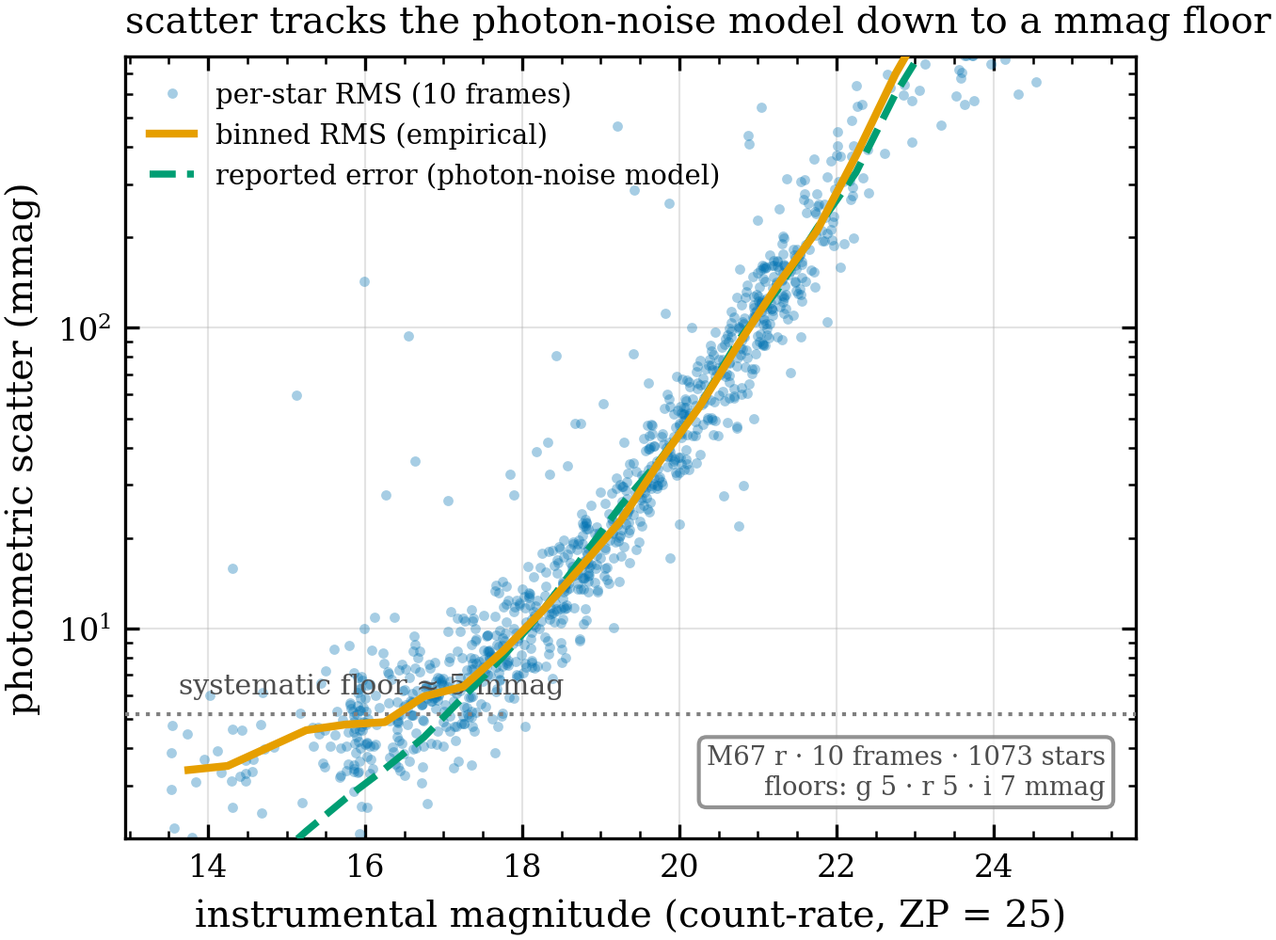
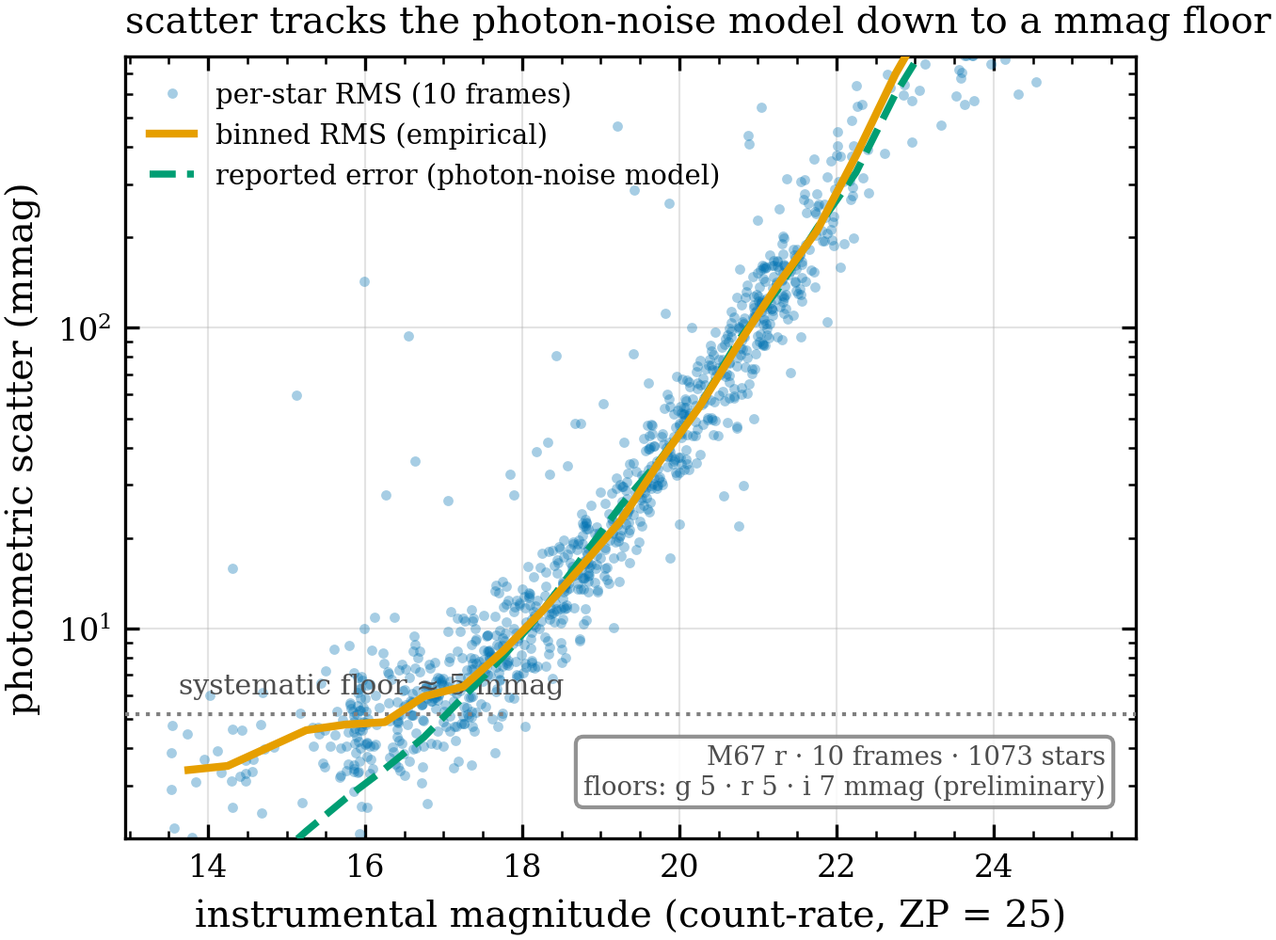
paper(3.6): rewrite EN+KO to real-frame injection + S/N collapse; fix SEP citation; scope precision-floor to Honeycutt
Section 3.6 now presents the seven-single-exposure real-frame injection (depths
17.65/15.64/14.90 read off, Wilson intervals, cutout ladder), the synthetic frame
demoted to a verification rung with the m50 coincidence stated honestly, and the
peak-S/N collapse (S/N50 = 4.05 +/- 0.18, FWHM trend rho=-0.98, minimum-area
mechanism) as the invariant claim, plus the 6% real-star detection-count
prediction. SEP citation corrected bertin1996 -> barbary2016 (LIT_REVIEW_R2 A1).
Precision-floor figure re-attributed to Honeycutt 1992 alone with 'single night,
preliminary' labels; Collier Cameron/Kovacs deferred to the LC SYSREM rerun.

Changed region(s): [[0.5885, 0.8068, 0.8673, 0.8689], [0.4336, 0.7758, 0.5575, 0.8689]]

diff --git a/validation/paper/논문작업/지식그래프.html b/validation/paper/논문작업/지식그래프.html
@@ -48,7 +48,7 @@ canvas.drag{cursor:grabbing}
  <div id="side"><div id="sinner"><button id="sclose">닫기 ✕</button><div id="sbody"></div></div></div>
 </div>
 <script>
-const G = {"cats": {"1": "재현 그림", "2": "레퍼런스 논문", "3": "데이터 자산", "4": "확정 결정·원칙", "5": "조사·진단", "6": "보류·미결"}, "nodes": [{"id": "hub_paper", "label": "RASTI/PASP 논문", "title": "RASTI/PASP 논문", "type": "hub", "cat": 0, "card": "# APEX 도구 논문\nRASTI/PASP급. 원고 `validation/paper/MANUSCRIPT_ko.md`(+영문). 구조 v4 = `OUTLINE.md`.\n- 그림 헌장: [[dec_figure_spec|FIGURE_SPEC]] · 재현 현황: `REPRODUCTION_STATUS.md`\n- 리뷰 R1: Major Revision(`REVIEW_ROUND1.md`) · 서지 40소스: `LIT_REVIEW.md`+`LIT_REVIEW_R2.md`\n- 원칙: [[dec_repro_def|재현=방법/법칙]] · [[dec_vv_ladder|verification→validation 사다리]]"}, {"id": "hub_repro", "label": "레퍼런스 재현 (/goal)", "title": "레퍼런스 재현 (/goal)", "type": "hub", "cat": 0, "card": "# 레퍼런스 검증-프레임 재현\n사용자 /goal: \"각 주요 논문 검증프레임을 할 수 있는 만큼 재현\". 정본 = `REPRODUCTION_STATUS.md`.\n- 완료 4: [[fig_completeness|완전도]] [[fig_astrometry|측성]] [[fig_iraf|IRAF교차]] [[fig_precision|정밀도floor]]\n- 보류: [[pend_lc_period|LC주기]] [[pend_zp_resid|광도보정잔차]] [[pend_cog|CoG]] [[pend_bouguer|소광]]"}, {"id": "fig_completeness", "label": "F5 완전도(실측주입)", "title": "F5 완전도(실측주입)", "type": "n", "cat": 1, "card": "# F5 — 검출 완전도, 실측-프레임 주입\n`fig_completeness_realvssynth.py` → `figures/fig_completeness_realvssynth.png`\n- 재현: [[ref_haynes|Haynes 2002]] · [[ref_balrog|DES Balrog]] · [[ref_daophot|DAOPHOT ADDSTAR]] · [[ref_autophot|AutoPhOT App.D]]\n- 실측 3+4프레임: M67 i **m50 17.65** / NGC6811 R **15.64** / M13 V **14.90** (+법칙검증용 4프레임 추가)\n- (b) S/N 붕괴 패널: 7프레임 전부 peak-S/N축에서 단일 erf로 붕괴, **S/N50=4.05±0.18** (3.2σ 매치드필터와 일치) — [[dec_m13_ok|M13 이상치 아님]]\n- 하단: 실주입별 컷아웃 사다리 m13→16 (`make_injection_cutouts.npz`, inject_flux_catalog 정규경로)\n- 합성은 verification rung: S/N 기준 약간 보수적([[dec_synth_ok|2차 정정]]) · 조사: [[inv_completeness|완전도 조사노트]]"}, {"id": "fig_astrometry", "label": "F6 측성(Gaia잔차)", "title": "F6 측성(Gaia잔차)", "type": "n", "cat": 1, "card": "# F6 — 측성 검증\n`fig_astrometry.py` · 재현: [[ref_ofek_masci|Ofek 2019 / Masci 2019(ZTF)]]\n- 실측 66프레임(M13 15·M67 30·NGC6811 21) `step5_wcs/frame_wcs_qc.csv`\n- Gaia DR3 잔차 RMS **중앙값 0.258″**, 66/66 solved, 피팅 없음(파이프라인이 실제 배포한 WCS)\n- (b)패널은 별수-안정성으로 대체됨 — 원문은 노출/시간축. 개선 여지(사용자 지적)"}, {"id": "fig_iraf", "label": "F10 독립엔진(IRAF)", "title": "F10 독립엔진(IRAF)", "type": "n", "cat": 1, "card": "# F10 — 독립엔진 교차검증\n`fig_iraf_crosscheck.py` · 재현: [[ref_schechter|Schechter 1993]] · AutoPhOT Fig14\n- NGC6811 V 전-APEX 리덕션, 고정좌표 499별: APEX vs IRAF phot(DAOPHOT)\n- **MAD 9.7 mmag · RMS 18.7 · r=0.99989**, binned median faint까지 평평(계통 없음)\n- 데이터: `benchmark/runs/ngc6811_iraf_allapex_v1/phot_fixed_coords/fixed_comparison.csv`\n- 기기의존도 최저(같은 프레임, 두 코드) — 재현 4종 중 가장 깨끗"}, {"id": "fig_precision", "label": "정밀도 floor(예비)", "title": "정밀도 floor(예비)", "type": "n", "cat": 1, "card": "# 정밀도 floor — RMS vs mag\n`fig_precision_floor.py` · 귀속: [[ref_honeycutt|Honeycutt 1992]] (앙상블 방법검증)\n- 실측 M67 r 10프레임 1073별, Honeycutt 앙상블 ZP: **floor g/r/i = 5.4/5.2/6.7 mmag**\n- 경험RMS = 보고 mag_err (photon영역 일치 = 에러모델 정직) + bright end 계통 floor 노출\n- ⚠ **10에폭 = under-powered**: 단일밤·binning 불가. floor값 자체는 에폭수 무감(5ep 5.18±0.33)\n- ⚠ [[pend_precision_fix|CC/Kovács 귀속 정정 필요]] — 원문 의도=detrending 전후 비교(SYSREM/TFA), 미재현"}, {"id": "ref_haynes", "label": "Haynes 2002", "title": "Haynes 2002", "type": "n", "cat": 2, "card": "# Haynes 2002 (MNRAS 334,262)\n합성 vs 실측 프레임 주입 **0.4–0.5 mag 계통 차** + 순환성 경고(\"merely confirm the starting hypothesis\").\n→ §3.6을 실측-프레임 주입으로 전환시킨 근거. APEX 합성은 S/N 기준 오히려 약간 보수적\n([[dec_synth_ok|2차 정정]] — m50 우연 일치 철회, FWHM 트렌드로 설명)."}, {"id": "ref_balrog", "label": "DES Balrog", "title": "DES Balrog", "type": "n", "cat": 2, "card": "# Suchyta+ (DES Balrog)\n\"real pixel-level CCD images\"에 소스 주입 — 실측 주입의 서베이 표준. 컷아웃 예시 그림 관행의 출처 중 하나.\nHSC SynPipe도 동일 계열."}, {"id": "ref_daophot", "label": "Stetson (DAOPHOT)", "title": "Stetson (DAOPHOT)", "type": "n", "cat": 2, "card": "# Stetson 1987 — DAOPHOT ADDSTAR\n인공별 실측 주입의 원조 루틴. crowded-field 측광 표준."}, {"id": "ref_autophot", "label": "AutoPhOT (A&A 667 A62)", "title": "AutoPhOT (A&A 667 A62)", "type": "n", "cat": 2, "card": "# Brennan & Fraser 2022 — AutoPhOT\nQC·벤치마크 준거 논문. App.D=주입-회수(S/N erf), Fig12=주입 컷아웃, Fig14=IRAF 대조.\n[[fig_completeness|F5]]·[[fig_iraf|F10]] 둘 다 이 논문 형식 재현."}, {"id": "ref_ofek_masci", "label": "Ofek 2019 · Masci 2019", "title": "Ofek 2019 · Masci 2019", "type": "n", "cat": 2, "card": "# Ofek 2019 (PASP 131) · Masci 2019 (ZTF)\n서베이 측성 검증 보고 형식: 프레임별 Gaia 잔차 RMS + solve 신뢰도. [[fig_astrometry|F6]]이 재현.\nPP(Mommert 2017) 0.3″을 참조선으로 병기."}, {"id": "ref_schechter", "label": "Schechter 1993", "title": "Schechter 1993", "type": "n", "cat": 2, "card": "# Schechter+ 1993 (PASP 105,1342) — DoPHOT\n신규코드 vs 기성코드(DAOPHOT), 같은 별·고정좌표, Δmag-vs-mag 평평성으로 계통 귀속.\n[[fig_iraf|F10]]이 재현."}, {"id": "ref_honeycutt", "label": "Honeycutt 1992", "title": "Honeycutt 1992", "type": "n", "cat": 2, "card": "# Honeycutt 1992 (PASP 104,435)\n비교성 지정 없는 **앙상블 차등측광**(모든 별+프레임ZP 동시해). RMS-vs-mag은 앙상블이\n광자한계에 도달함을 보이는 방법검증. [[fig_precision|floor 그림]]의 올바른 단독 귀속."}, {"id": "ref_cc_kovacs", "label": "CC 2006 · Kovács 2005", "title": "CC 2006 · Kovács 2005", "type": "n", "cat": 2, "card": "# Collier Cameron 2006 (WASP) · Kovács 2005 (TFA)\n**detrending 논문** — 의도는 SYSREM/TFA 전후 floor 하강 비교(수천 에폭, 트랜짓 감도).\n10에폭 단일밤으론 재현 불가 → [[pend_lc_period|LC 재현]]에서 SYSREM 전후로 제대로.\n현 floor 그림에서 귀속 제거 예정([[pend_precision_fix|정정 미결]])."}, {"id": "ref_period", "label": "Stellingwerf · Graham", "title": "Stellingwerf · Graham", "type": "n", "cat": 2, "card": "# Stellingwerf 1978 (PDM) · Graham 2013 (주기복원 비교)\n주기 복원 검증 준거. AE UMa(P=0.086017d)·YZ Boo(P=0.104092d) 문헌 확정값 보유.\nLC 전처리 deferred라 보류: [[pend_lc_period|LC 주기복원]]."}, {"id": "data_reprocess", "label": "reprocess 3성단", "title": "reprocess 3성단", "type": "n", "cat": 3, "card": "# E:\\APEX_validation\\reprocess\\\n전-APEX 헤드리스 재처리(raw→science). step7 forced phot: M13 15fr(BVR) · M67 30fr(gri) ·\nNGC6811 21fr(BVR). M5는 step7 없음. WCS QC 66프레임 전부 solved.\n과학프레임 위치: `{target}/sci/pp_*.fit` (M13만 calibrated/ 사용례 있음)."}, {"id": "data_injections", "label": "실측주입 7런", "title": "실측주입 7런", "type": "n", "cat": 3, "card": "# validation/paper/data_realframe_*\nrun_artificial_star_suite(reference_frame=실측) 60trial×50별. stars.csv는 git 추적.\n- 대표3: M67i(m50 17.65) · NGC6811R(15.64) · M13V(14.90)\n- 법칙용4(2026-07-24): M67r_mid · M67g_broad · NGC6811R_broad · M13R_sharp — [[done_lawtest|법칙 검증 완료]]\n- 컷아웃: `data_realframe_M13V/injection_cutouts.npz`"}, {"id": "data_iraf", "label": "IRAF 교차 런", "title": "IRAF 교차 런", "type": "n", "cat": 3, "card": "# benchmark/runs/\n`ngc6811_iraf_allapex_v1`(499별, 본검증) · `ngc457_iraf_crosscheck_g0016_v1`(278별, 구버전).\nPyRAF는 WSL. fixed_comparison.csv 소비."}, {"id": "data_synth", "label": "합성 21k 주입", "title": "합성 21k 주입", "type": "n", "cat": 3, "card": "# validation/paper/data/artificial_star/\n합성 참조프레임(FWHM 3.4px·sky 150) 21,000주입. m50=17.59. verification rung 전용\n([[dec_vv_ladder|사다리 프레이밍]]). 실측과 혼용 금지."}, {"id": "data_lc", "label": "LC 데이터(잠김)", "title": "LC 데이터(잠김)", "type": "n", "cat": 3, "card": "# E:\\observed_Analysis (LC 전처리 대기)\nAE UMa·YZ Boo 등 변광성 시계열. **사용자 수동 삭제 대기로 100GB 전처리 deferred** —\n[[pend_lc_period|LC 주기복원]]과 CC/Kovács 제대로 된 재현의 선결조건."}, {"id": "dec_repro_def", "label": "재현=방법/법칙", "title": "재현=방법/법칙", "type": "n", "cat": 4, "card": "# \"재현\"의 정의 (2026-07-23 확정)\n레퍼런스들은 전부 다른 기기(CCD 서베이 등), APEX=IMX455 CMOS 소형망원경.\n- **비교 불가**: floor 절대값·한계등급·광자곡선 위치 → \"WASP만큼 정밀\"류 문구 금지\n- **재현 대상**: 검증 프로토콜(주입·앙상블·독립엔진) + 보편 법칙(RMS모양, m50∝σ·FWHM²)\n- 수치는 항상 \"APEX(C3-61000 CMOS)에서\" 로 보고. `REPRODUCTION_STATUS.md`에 명문화."}, {"id": "dec_synth_ok", "label": "합성=보수적(정정)", "title": "합성=보수적(정정)", "type": "n", "cat": 4, "card": "# 합성 프레임 판정 — 2차 정정 (2026-07-24)\n~~\"M67 실측 m50=합성이라 낙관 아님\"~~ ← **철회**: m50 일치는 노이즈↑·PSF샤프↑ 상쇄의\n파라미터 우연(사용자 의심 적중). 직접 계산하면 합성 S/N50=**5.19**로 실측 법칙(4.05±0.18)\n위에 없음. **새 체계**: S/N50이 커널 FWHM에 단조 의존(ρ=-0.982; 샤프할수록 높음, 기전=\n최소 픽셀면적 요구). 합성(3.4px)도 이 트렌드 위 → **S/N 기준 합성은 약간 보수적**.\n상세: COMPLETENESS_REALFRAME_INVESTIGATION.md 후속정정 절."}, {"id": "dec_m13_ok", "label": "M13 이상치 아님", "title": "M13 이상치 아님", "type": "n", "cat": 4, "card": "# M13 V 프레임은 그냥 얕은 프레임\nm50 격차 완전 분해: 하늘밝기 1.92 + seeing 0.82 = 2.75 mag (관측 2.75, Δ0.00).\n법칙 m50 = C − 2.5logσ − 5logFWHM 이 3프레임 Δ≤0.04로 성립(지수 고정).\npeak-detection 절벽 메커니즘: mag15 별 peak 84e < 3.2σ 임계 96e."}, {"id": "dec_vv_ladder", "label": "V&V 사다리", "title": "V&V 사다리", "type": "n", "cat": 4, "card": "# verification → validation 프레이밍\nOberkampf&Trucano 2002 · Portillo 2020 3-rung. 합성=기계 수치정확성(verification),\n실측=실성능(validation). §3 전반과 [[fig_completeness|F5]] 범례에 적용."}, {"id": "dec_figure_spec", "label": "FIGURE_SPEC 헌장", "title": "FIGURE_SPEC 헌장", "type": "n", "cat": 4, "card": "# 그림 전면 재작성 헌장 (`FIGURE_SPEC.md`)\n10개 공통병 진단(패널제목=변수명·내부ID 노출·suptitle 박힘·AIPPI 패널 등).\n규칙: message-first 제목 · 내부 데이터셋ID 금지 · **AIPPI는 검증 그림에서 제외**(자체툴=순환) ·\nF1-17 파이프라인 순서 번호."}, {"id": "dec_citation_fixes", "label": "인용 오류 6건", "title": "인용 오류 6건", "type": "n", "cat": 4, "card": "# 확정 인용 정정 목록 (LIT_REVIEW_R2 ★A)\n1) SEP→**barbary2016** (bertin1996 아님) 2) AIJ 6.0은 주기도 **있음** 3) HOPS=EPSC 학회초록\n4) Munipack(Hroch,CLI)≠Muniwin(Motl,GUI) 5) ASTROPOP IRAF비교=편광측정 한정 6) PASP=IOP.\n원고 반영 미완 → 다음 원고 패스에서."}, {"id": "inv_completeness", "label": "완전도 조사노트", "title": "완전도 조사노트", "type": "n", "cat": 5, "card": "# COMPLETENESS_REALFRAME_INVESTIGATION.md\n2.7mag 격차 전체 추적 기록: flux스케일 무죄 → PSF폭=실측seeing 확인 → peak-detection 절벽 →\n파이프라인 자체 검출롤오프와 독립 일치 → 다중프레임 확장(법칙). [[dec_m13_ok|결론]]·[[dec_synth_ok|반증]]의 근거문서."}, {"id": "inv_detector", "label": "검출기 실측", "title": "검출기 실측", "type": "n", "cat": 5, "card": "# C3-61000/IMX455 특성 실측\ngain **0.689 e/ADU**(PTC) — 헤더 EGAIN 0.0495는 14× 오류(펌웨어 미구현). RN 2.1e·dark 0.0077e/s.\n주입 flux 전자환산의 기반. 메모리 project_detector_characterization."}, {"id": "inv_bfilter", "label": "B필터 판결(종결)", "title": "B필터 판결(종결)", "type": "n", "cat": 5, "card": "# B필터 faint 편차 — PS1 대조 종결\nGaia BP faint 감광 유죄(ref +0.022), APEX 무죄(vs PS1 +0.008 평평).\n교훈: faint 검증에 BP기반 참조 금지 — [[pend_zp_resid|광도보정 잔차]] 설계 시 필수 반영."}, {"id": "done_lawtest", "label": "법칙 검증(완료)", "title": "법칙 검증(완료)", "type": "n", "cat": 5, "card": "# 7프레임 검출법칙 검증 — 완료 (2026-07-24)\nm50 = C − 2.5logσ − 5logFWHM, **지수 이론고정·C만 fit: 잔차 RMS 103 mmag** (동적범위 3.4mag, N=7).\n- 추가 4런: M67r_mid·M67g_broad·NGC6811R_broad·M13R_sharp (off-diagonal로 σ·FWHM 항 분리)\n- **교훈**: FWHM은 frame_stats(밝은별)가 아니라 **각 런의 주입커널**(empirical_psf.fits 반높이면적)로\n  — soft 프레임에서 9.30 vs 7.23px 괴리가 0.4mag 이탈 일으켰음(추적해 해소)\n- 이 법칙이 [[dec_repro_def|기기무관 재현]]의 실체 — 절대 깊이가 아니라 법칙이 검증 대상"}, {"id": "pend_precision_fix", "label": "floor 귀속 정정", "title": "floor 귀속 정정", "type": "n", "cat": 6, "card": "# 정밀도 floor 그림 정정 (미승인 제안)\nCC/Kovács 귀속 제거 → Honeycutt 단독 + \"single-night N=10 예비\" 라벨.\n확정판은 [[pend_lc_period|LC]]에서 SYSREM 전후 비교로. **사용자 승인 대기.**"}, {"id": "pend_lc_period", "label": "LC 주기복원", "title": "LC 주기복원", "type": "n", "cat": 6, "card": "# LC 재현 (Stellingwerf/Graham + CC/Kovács 진짜 재현)\n선결: 사용자 observed_Analysis 수동삭제 → LC 전처리(100GB) → step1-11.\n목표: AE UMa·YZ Boo 주기 문헌 대조 + SYSREM 전후 RMS-vs-mag(수백 에폭)."}, {"id": "pend_zp_resid", "label": "광도보정 잔차", "title": "광도보정 잔차", "type": "n", "cat": 6, "card": "# ZP·색항·잔차 그림 (Padmanabhan/Schlafly식)\n데이터는 cmd_zeropoint/에 있으나 **Gaia-CMD 보정계=논란영역**(이소크론·B필터 이력).\n어느 레퍼런스로 보정할지 사용자 결정 필요. [[inv_bfilter|BP 금지 교훈]] 적용."}, {"id": "pend_cog", "label": "Curve-of-growth", "title": "Curve-of-growth", "type": "n", "cat": 6, "card": "# 구경보정 CoG (Stetson/Howell)\napcorr_summary는 프레임당 단일값뿐 — 다중구경 재실행 필요."}, {"id": "pend_bouguer", "label": "소광 Bouguer", "title": "소광 Bouguer", "type": "n", "cat": 6, "card": "# zp vs airmass (Hardie 1962)\nframe_zeropoint.csv에 airmass 있음. 단 ZP 레퍼런스 얽힘 + airmass span 미확인."}, {"id": "pend_fig_a_layout", "label": "fig(a)=C안 진행중", "title": "fig(a)=C안 진행중", "type": "n", "cat": 6, "card": "# fig(a) 배치 — **C안 확정**(2026-07-24, \"C로 하던가\")\nKessler/ATLAS식 \"예측 vs 실현 깊이\" QC 그림. 조사=`FIG_A_PRESENTATION_SURVEY.md`.\n- 예측 절반: 병렬 세션 task_5bb4af3e(predict-m50 QC 게이트)가 구현 중 — 머지 대기\n- 실현 절반: **완료** — `extract_realized_depth.py` → `data_qc_depth/realized_m50.csv`,\n  66프레임(유효 57). 실별 참등급=동일필터 중앙값 count-rate mag(Eddington 제거).\n- **순환 차단**: 필터 최심 프레임은 master 꼬리가 자기검출로 구성→깊이 부풂(M13 R +1.45 사례).\n  master 한계 margin ≤0.7mag → depth_valid=False. 유효 주입프레임 6개 대조: RMS 0.15 mag.\n- 남은 일: 머지 후 predicted vs realized 산점 조립(+블렌드 매칭 +0.1 편향 캡션 명시)"}, {"id": "pend_manuscript", "label": "원고 §3.6 갱신", "title": "원고 §3.6 갱신", "type": "n", "cat": 6, "card": "# 원고 반영 대기\n§3.6을 다중프레임 실측주입+법칙으로 갱신 · §3.7(측성)·§3.15(시계열) 스텁 채우기 ·\n[[dec_citation_fixes|인용 6건]] 반영 · Data Availability 그림번호 깨짐 수정."}], "edges": [["hub_paper", "hub_repro"], ["hub_paper", "dec_figure_spec"], ["hub_paper", "dec_citation_fixes"], ["hub_paper", "dec_vv_ladder"], ["hub_paper", "pend_manuscript"], ["hub_repro", "fig_completeness"], ["hub_repro", "fig_astrometry"], ["hub_repro", "fig_iraf"], ["hub_repro", "fig_precision"], ["hub_repro", "dec_repro_def"], ["fig_completeness", "ref_haynes"], ["fig_completeness", "ref_balrog"], ["fig_completeness", "ref_daophot"], ["fig_completeness", "ref_autophot"], ["fig_completeness", "data_injections"], ["fig_completeness", "data_synth"], ["fig_completeness", "inv_completeness"], ["fig_completeness", "dec_synth_ok"], ["fig_completeness", "dec_m13_ok"], ["fig_completeness", "done_lawtest"], ["fig_astrometry", "ref_ofek_masci"], ["fig_astrometry", "data_reprocess"], ["fig_iraf", "ref_schechter"], ["fig_iraf", "ref_autophot"], ["fig_iraf", "data_iraf"], ["fig_precision", "ref_honeycutt"], ["fig_precision", "ref_cc_kovacs"], ["fig_precision", "data_reprocess"], ["fig_precision", "pend_precision_fix"], ["inv_completeness", "dec_m13_ok"], ["inv_completeness", "dec_synth_ok"], ["dec_vv_ladder", "data_synth"], ["inv_detector", "data_injections"], ["dec_repro_def", "fig_precision"], ["dec_repro_def", "fig_completeness"], ["pend_lc_period", "ref_cc_kovacs"], ["pend_lc_period", "ref_period"], ["pend_lc_period", "data_lc"], ["pend_precision_fix", "ref_cc_kovacs"], ["pend_zp_resid", "inv_bfilter"], ["done_lawtest", "data_injections"], ["pend_manuscript", "dec_citation_fixes"], ["hub_repro", "pend_zp_resid"], ["hub_repro", "pend_cog"], ["hub_repro", "pend_bouguer"], ["hub_repro", "pend_lc_period"], ["fig_completeness", "pend_fig_a_layout"]]};
+const G = {"cats": {"1": "재현 그림", "2": "레퍼런스 논문", "3": "데이터 자산", "4": "확정 결정·원칙", "5": "조사·진단", "6": "보류·미결"}, "nodes": [{"id": "hub_paper", "label": "RASTI/PASP 논문", "title": "RASTI/PASP 논문", "type": "hub", "cat": 0, "card": "# APEX 도구 논문\nRASTI/PASP급. 원고 `validation/paper/MANUSCRIPT_ko.md`(+영문). 구조 v4 = `OUTLINE.md`.\n- 그림 헌장: [[dec_figure_spec|FIGURE_SPEC]] · 재현 현황: `REPRODUCTION_STATUS.md`\n- 리뷰 R1: Major Revision(`REVIEW_ROUND1.md`) · 서지 40소스: `LIT_REVIEW.md`+`LIT_REVIEW_R2.md`\n- 원칙: [[dec_repro_def|재현=방법/법칙]] · [[dec_vv_ladder|verification→validation 사다리]]"}, {"id": "hub_repro", "label": "레퍼런스 재현 (/goal)", "title": "레퍼런스 재현 (/goal)", "type": "hub", "cat": 0, "card": "# 레퍼런스 검증-프레임 재현\n사용자 /goal: \"각 주요 논문 검증프레임을 할 수 있는 만큼 재현\". 정본 = `REPRODUCTION_STATUS.md`.\n- 완료 4: [[fig_completeness|완전도]] [[fig_astrometry|측성]] [[fig_iraf|IRAF교차]] [[fig_precision|정밀도floor]]\n- 보류: [[pend_lc_period|LC주기]] [[pend_zp_resid|광도보정잔차]] [[pend_cog|CoG]] [[pend_bouguer|소광]]"}, {"id": "fig_completeness", "label": "F5 완전도(실측주입)", "title": "F5 완전도(실측주입)", "type": "n", "cat": 1, "card": "# F5 — 검출 완전도, 실측-프레임 주입\n`fig_completeness_realvssynth.py` → `figures/fig_completeness_realvssynth.png`\n- 재현: [[ref_haynes|Haynes 2002]] · [[ref_balrog|DES Balrog]] · [[ref_daophot|DAOPHOT ADDSTAR]] · [[ref_autophot|AutoPhOT App.D]]\n- 실측 3+4프레임: M67 i **m50 17.65** / NGC6811 R **15.64** / M13 V **14.90** (+법칙검증용 4프레임 추가)\n- (b) S/N 붕괴 패널: 7프레임 전부 peak-S/N축에서 단일 erf로 붕괴, **S/N50=4.05±0.18** (3.2σ 매치드필터와 일치) — [[dec_m13_ok|M13 이상치 아님]]\n- 하단: 실주입별 컷아웃 사다리 m13→16 (`make_injection_cutouts.npz`, inject_flux_catalog 정규경로)\n- 합성은 verification rung: S/N 기준 약간 보수적([[dec_synth_ok|2차 정정]]) · 조사: [[inv_completeness|완전도 조사노트]]"}, {"id": "fig_astrometry", "label": "F6 측성(Gaia잔차)", "title": "F6 측성(Gaia잔차)", "type": "n", "cat": 1, "card": "# F6 — 측성 검증\n`fig_astrometry.py` · 재현: [[ref_ofek_masci|Ofek 2019 / Masci 2019(ZTF)]]\n- 실측 66프레임(M13 15·M67 30·NGC6811 21) `step5_wcs/frame_wcs_qc.csv`\n- Gaia DR3 잔차 RMS **중앙값 0.258″**, 66/66 solved, 피팅 없음(파이프라인이 실제 배포한 WCS)\n- (b)패널은 별수-안정성으로 대체됨 — 원문은 노출/시간축. 개선 여지(사용자 지적)"}, {"id": "fig_iraf", "label": "F10 독립엔진(IRAF)", "title": "F10 독립엔진(IRAF)", "type": "n", "cat": 1, "card": "# F10 — 독립엔진 교차검증\n`fig_iraf_crosscheck.py` · 재현: [[ref_schechter|Schechter 1993]] · AutoPhOT Fig14\n- NGC6811 V 전-APEX 리덕션, 고정좌표 499별: APEX vs IRAF phot(DAOPHOT)\n- **MAD 9.7 mmag · RMS 18.7 · r=0.99989**, binned median faint까지 평평(계통 없음)\n- 데이터: `benchmark/runs/ngc6811_iraf_allapex_v1/phot_fixed_coords/fixed_comparison.csv`\n- 기기의존도 최저(같은 프레임, 두 코드) — 재현 4종 중 가장 깨끗"}, {"id": "fig_precision", "label": "정밀도 floor(예비)", "title": "정밀도 floor(예비)", "type": "n", "cat": 1, "card": "# 정밀도 floor — RMS vs mag\n`fig_precision_floor.py` · 귀속: [[ref_honeycutt|Honeycutt 1992]] (앙상블 방법검증)\n- 실측 M67 r 10프레임 1073별, Honeycutt 앙상블 ZP: **floor g/r/i = 5.4/5.2/6.7 mmag**\n- 경험RMS = 보고 mag_err (photon영역 일치 = 에러모델 정직) + bright end 계통 floor 노출\n- ⚠ **10에폭 = under-powered**: 단일밤·binning 불가. floor값 자체는 에폭수 무감(5ep 5.18±0.33)\n- 귀속 정정 완료([[pend_precision_fix|Honeycutt 단독+예비 라벨]]) — CC/Kovács는 LC 재현으로 이관"}, {"id": "ref_haynes", "label": "Haynes 2002", "title": "Haynes 2002", "type": "n", "cat": 2, "card": "# Haynes 2002 (MNRAS 334,262)\n합성 vs 실측 프레임 주입 **0.4–0.5 mag 계통 차** + 순환성 경고(\"merely confirm the starting hypothesis\").\n→ §3.6을 실측-프레임 주입으로 전환시킨 근거. APEX 합성은 S/N 기준 오히려 약간 보수적\n([[dec_synth_ok|2차 정정]] — m50 우연 일치 철회, FWHM 트렌드로 설명)."}, {"id": "ref_balrog", "label": "DES Balrog", "title": "DES Balrog", "type": "n", "cat": 2, "card": "# Suchyta+ (DES Balrog)\n\"real pixel-level CCD images\"에 소스 주입 — 실측 주입의 서베이 표준. 컷아웃 예시 그림 관행의 출처 중 하나.\nHSC SynPipe도 동일 계열."}, {"id": "ref_daophot", "label": "Stetson (DAOPHOT)", "title": "Stetson (DAOPHOT)", "type": "n", "cat": 2, "card": "# Stetson 1987 — DAOPHOT ADDSTAR\n인공별 실측 주입의 원조 루틴. crowded-field 측광 표준."}, {"id": "ref_autophot", "label": "AutoPhOT (A&A 667 A62)", "title": "AutoPhOT (A&A 667 A62)", "type": "n", "cat": 2, "card": "# Brennan & Fraser 2022 — AutoPhOT\nQC·벤치마크 준거 논문. App.D=주입-회수(S/N erf), Fig12=주입 컷아웃, Fig14=IRAF 대조.\n[[fig_completeness|F5]]·[[fig_iraf|F10]] 둘 다 이 논문 형식 재현."}, {"id": "ref_ofek_masci", "label": "Ofek 2019 · Masci 2019", "title": "Ofek 2019 · Masci 2019", "type": "n", "cat": 2, "card": "# Ofek 2019 (PASP 131) · Masci 2019 (ZTF)\n서베이 측성 검증 보고 형식: 프레임별 Gaia 잔차 RMS + solve 신뢰도. [[fig_astrometry|F6]]이 재현.\nPP(Mommert 2017) 0.3″을 참조선으로 병기."}, {"id": "ref_schechter", "label": "Schechter 1993", "title": "Schechter 1993", "type": "n", "cat": 2, "card": "# Schechter+ 1993 (PASP 105,1342) — DoPHOT\n신규코드 vs 기성코드(DAOPHOT), 같은 별·고정좌표, Δmag-vs-mag 평평성으로 계통 귀속.\n[[fig_iraf|F10]]이 재현."}, {"id": "ref_honeycutt", "label": "Honeycutt 1992", "title": "Honeycutt 1992", "type": "n", "cat": 2, "card": "# Honeycutt 1992 (PASP 104,435)\n비교성 지정 없는 **앙상블 차등측광**(모든 별+프레임ZP 동시해). RMS-vs-mag은 앙상블이\n광자한계에 도달함을 보이는 방법검증. [[fig_precision|floor 그림]]의 올바른 단독 귀속."}, {"id": "ref_cc_kovacs", "label": "CC 2006 · Kovács 2005", "title": "CC 2006 · Kovács 2005", "type": "n", "cat": 2, "card": "# Collier Cameron 2006 (WASP) · Kovács 2005 (TFA)\n**detrending 논문** — 의도는 SYSREM/TFA 전후 floor 하강 비교(수천 에폭, 트랜짓 감도).\n10에폭 단일밤으론 재현 불가 → [[pend_lc_period|LC 재현]]에서 SYSREM 전후로 제대로.\nfloor 그림에서 귀속 제거 완료([[pend_precision_fix|정정 기록]])."}, {"id": "ref_period", "label": "Stellingwerf · Graham", "title": "Stellingwerf · Graham", "type": "n", "cat": 2, "card": "# Stellingwerf 1978 (PDM) · Graham 2013 (주기복원 비교)\n주기 복원 검증 준거. AE UMa(P=0.086017d)·YZ Boo(P=0.104092d) 문헌 확정값 보유.\nLC 전처리 deferred라 보류: [[pend_lc_period|LC 주기복원]]."}, {"id": "data_reprocess", "label": "reprocess 3성단", "title": "reprocess 3성단", "type": "n", "cat": 3, "card": "# E:\\APEX_validation\\reprocess\\\n전-APEX 헤드리스 재처리(raw→science). step7 forced phot: M13 15fr(BVR) · M67 30fr(gri) ·\nNGC6811 21fr(BVR). M5는 step7 없음. WCS QC 66프레임 전부 solved.\n과학프레임 위치: `{target}/sci/pp_*.fit` (M13만 calibrated/ 사용례 있음)."}, {"id": "data_injections", "label": "실측주입 7런", "title": "실측주입 7런", "type": "n", "cat": 3, "card": "# validation/paper/data_realframe_*\nrun_artificial_star_suite(reference_frame=실측) 60trial×50별. stars.csv는 git 추적.\n- 대표3: M67i(m50 17.65) · NGC6811R(15.64) · M13V(14.90)\n- 법칙용4(2026-07-24): M67r_mid · M67g_broad · NGC6811R_broad · M13R_sharp — [[done_lawtest|법칙 검증 완료]]\n- 컷아웃: `data_realframe_M13V/injection_cutouts.npz`"}, {"id": "data_iraf", "label": "IRAF 교차 런", "title": "IRAF 교차 런", "type": "n", "cat": 3, "card": "# benchmark/runs/\n`ngc6811_iraf_allapex_v1`(499별, 본검증) · `ngc457_iraf_crosscheck_g0016_v1`(278별, 구버전).\nPyRAF는 WSL. fixed_comparison.csv 소비."}, {"id": "data_synth", "label": "합성 21k 주입", "title": "합성 21k 주입", "type": "n", "cat": 3, "card": "# validation/paper/data/artificial_star/\n합성 참조프레임(FWHM 3.4px·sky 150) 21,000주입. m50=17.59. verification rung 전용\n([[dec_vv_ladder|사다리 프레이밍]]). 실측과 혼용 금지."}, {"id": "data_lc", "label": "LC 데이터(잠김)", "title": "LC 데이터(잠김)", "type": "n", "cat": 3, "card": "# E:\\observed_Analysis (LC 전처리 대기)\nAE UMa·YZ Boo 등 변광성 시계열. **사용자 수동 삭제 대기로 100GB 전처리 deferred** —\n[[pend_lc_period|LC 주기복원]]과 CC/Kovács 제대로 된 재현의 선결조건."}, {"id": "dec_repro_def", "label": "재현=방법/법칙", "title": "재현=방법/법칙", "type": "n", "cat": 4, "card": "# \"재현\"의 정의 (2026-07-23 확정)\n레퍼런스들은 전부 다른 기기(CCD 서베이 등), APEX=IMX455 CMOS 소형망원경.\n- **비교 불가**: floor 절대값·한계등급·광자곡선 위치 → \"WASP만큼 정밀\"류 문구 금지\n- **재현 대상**: 검증 프로토콜(주입·앙상블·독립엔진) + 보편 법칙(RMS모양, m50∝σ·FWHM²)\n- 수치는 항상 \"APEX(C3-61000 CMOS)에서\" 로 보고. `REPRODUCTION_STATUS.md`에 명문화."}, {"id": "dec_synth_ok", "label": "합성=보수적(정정)", "title": "합성=보수적(정정)", "type": "n", "cat": 4, "card": "# 합성 프레임 판정 — 2차 정정 (2026-07-24)\n~~\"M67 실측 m50=합성이라 낙관 아님\"~~ ← **철회**: m50 일치는 노이즈↑·PSF샤프↑ 상쇄의\n파라미터 우연(사용자 의심 적중). 직접 계산하면 합성 S/N50=**5.19**로 실측 법칙(4.05±0.18)\n위에 없음. **새 체계**: S/N50이 커널 FWHM에 단조 의존(ρ=-0.982; 샤프할수록 높음, 기전=\n최소 픽셀면적 요구). 합성(3.4px)도 이 트렌드 위 → **S/N 기준 합성은 약간 보수적**.\n상세: COMPLETENESS_REALFRAME_INVESTIGATION.md 후속정정 절."}, {"id": "dec_m13_ok", "label": "M13 이상치 아님", "title": "M13 이상치 아님", "type": "n", "cat": 4, "card": "# M13 V 프레임은 그냥 얕은 프레임\nm50 격차 완전 분해: 하늘밝기 1.92 + seeing 0.82 = 2.75 mag (관측 2.75, Δ0.00).\n법칙 m50 = C − 2.5logσ − 5logFWHM 이 3프레임 Δ≤0.04로 성립(지수 고정).\npeak-detection 절벽 메커니즘: mag15 별 peak 84e < 3.2σ 임계 96e."}, {"id": "dec_vv_ladder", "label": "V&V 사다리", "title": "V&V 사다리", "type": "n", "cat": 4, "card": "# verification → validation 프레이밍\nOberkampf&Trucano 2002 · Portillo 2020 3-rung. 합성=기계 수치정확성(verification),\n실측=실성능(validation). §3 전반과 [[fig_completeness|F5]] 범례에 적용."}, {"id": "dec_figure_spec", "label": "FIGURE_SPEC 헌장", "title": "FIGURE_SPEC 헌장", "type": "n", "cat": 4, "card": "# 그림 전면 재작성 헌장 (`FIGURE_SPEC.md`)\n10개 공통병 진단(패널제목=변수명·내부ID 노출·suptitle 박힘·AIPPI 패널 등).\n규칙: message-first 제목 · 내부 데이터셋ID 금지 · **AIPPI는 검증 그림에서 제외**(자체툴=순환) ·\nF1-17 파이프라인 순서 번호."}, {"id": "dec_citation_fixes", "label": "인용 오류 6건", "title": "인용 오류 6건", "type": "n", "cat": 4, "card": "# 확정 인용 정정 목록 (LIT_REVIEW_R2 ★A)\n1) SEP→**barbary2016** (bertin1996 아님) 2) AIJ 6.0은 주기도 **있음** 3) HOPS=EPSC 학회초록\n4) Munipack(Hroch,CLI)≠Muniwin(Motl,GUI) 5) ASTROPOP IRAF비교=편광측정 한정 6) PASP=IOP.\n원고 반영 미완 → 다음 원고 패스에서."}, {"id": "inv_completeness", "label": "완전도 조사노트", "title": "완전도 조사노트", "type": "n", "cat": 5, "card": "# COMPLETENESS_REALFRAME_INVESTIGATION.md\n2.7mag 격차 전체 추적 기록: flux스케일 무죄 → PSF폭=실측seeing 확인 → peak-detection 절벽 →\n파이프라인 자체 검출롤오프와 독립 일치 → 다중프레임 확장(법칙). [[dec_m13_ok|결론]]·[[dec_synth_ok|반증]]의 근거문서."}, {"id": "inv_detector", "label": "검출기 실측", "title": "검출기 실측", "type": "n", "cat": 5, "card": "# C3-61000/IMX455 특성 실측\ngain **0.689 e/ADU**(PTC) — 헤더 EGAIN 0.0495는 14× 오류(펌웨어 미구현). RN 2.1e·dark 0.0077e/s.\n주입 flux 전자환산의 기반. 메모리 project_detector_characterization."}, {"id": "inv_bfilter", "label": "B필터 판결(종결)", "title": "B필터 판결(종결)", "type": "n", "cat": 5, "card": "# B필터 faint 편차 — PS1 대조 종결\nGaia BP faint 감광 유죄(ref +0.022), APEX 무죄(vs PS1 +0.008 평평).\n교훈: faint 검증에 BP기반 참조 금지 — [[pend_zp_resid|광도보정 잔차]] 설계 시 필수 반영."}, {"id": "done_lawtest", "label": "법칙 검증(완료)", "title": "법칙 검증(완료)", "type": "n", "cat": 5, "card": "# 7프레임 검출법칙 검증 — 완료 (2026-07-24)\nm50 = C − 2.5logσ − 5logFWHM, **지수 이론고정·C만 fit: 잔차 RMS 103 mmag** (동적범위 3.4mag, N=7).\n- 추가 4런: M67r_mid·M67g_broad·NGC6811R_broad·M13R_sharp (off-diagonal로 σ·FWHM 항 분리)\n- **교훈**: FWHM은 frame_stats(밝은별)가 아니라 **각 런의 주입커널**(empirical_psf.fits 반높이면적)로\n  — soft 프레임에서 9.30 vs 7.23px 괴리가 0.4mag 이탈 일으켰음(추적해 해소)\n- 이 법칙이 [[dec_repro_def|기기무관 재현]]의 실체 — 절대 깊이가 아니라 법칙이 검증 대상"}, {"id": "pend_precision_fix", "label": "floor 귀속 정정(완료)", "title": "floor 귀속 정정(완료)", "type": "n", "cat": 5, "card": "# 정밀도 floor 귀속 정정 — 완료 (2026-07-24 \"알아서 하쇼\")\nCC/Kovács 귀속 제거(둘은 detrending 논문 — 수천 에폭 전후비교, 10에폭으론 재현 불가) →\n**Honeycutt 1992 단독** + \"single night · preliminary\" 라벨을 그림·docstring에 명기.\n확정판은 [[pend_lc_period|LC]]에서 SYSREM 전후 비교로."}, {"id": "pend_lc_period", "label": "LC 주기복원", "title": "LC 주기복원", "type": "n", "cat": 6, "card": "# LC 재현 (Stellingwerf/Graham + CC/Kovács 진짜 재현)\n선결: 사용자 observed_Analysis 수동삭제 → LC 전처리(100GB) → step1-11.\n목표: AE UMa·YZ Boo 주기 문헌 대조 + SYSREM 전후 RMS-vs-mag(수백 에폭)."}, {"id": "pend_zp_resid", "label": "광도보정 잔차", "title": "광도보정 잔차", "type": "n", "cat": 6, "card": "# ZP·색항·잔차 그림 (Padmanabhan/Schlafly식)\n데이터는 cmd_zeropoint/에 있으나 **Gaia-CMD 보정계=논란영역**(이소크론·B필터 이력).\n어느 레퍼런스로 보정할지 사용자 결정 필요. [[inv_bfilter|BP 금지 교훈]] 적용."}, {"id": "pend_cog", "label": "Curve-of-growth", "title": "Curve-of-growth", "type": "n", "cat": 6, "card": "# 구경보정 CoG (Stetson/Howell)\napcorr_summary는 프레임당 단일값뿐 — 다중구경 재실행 필요."}, {"id": "pend_bouguer", "label": "소광 Bouguer", "title": "소광 Bouguer", "type": "n", "cat": 6, "card": "# zp vs airmass (Hardie 1962)\nframe_zeropoint.csv에 airmass 있음. 단 ZP 레퍼런스 얽힘 + airmass span 미확인."}, {"id": "pend_fig_a_layout", "label": "fig(a)=C안 진행중", "title": "fig(a)=C안 진행중", "type": "n", "cat": 6, "card": "# fig(a) 배치 — **C안 확정**(2026-07-24, \"C로 하던가\")\nKessler/ATLAS식 \"예측 vs 실현 깊이\" QC 그림. 조사=`FIG_A_PRESENTATION_SURVEY.md`.\n- 예측 절반: 병렬 세션 task_5bb4af3e(predict-m50 QC 게이트)가 구현 중 — 머지 대기\n- 실현 절반: **완료** — `extract_realized_depth.py` → `data_qc_depth/realized_m50.csv`,\n  66프레임(유효 57). 실별 참등급=동일필터 중앙값 count-rate mag(Eddington 제거).\n- **순환 차단**: 필터 최심 프레임은 master 꼬리가 자기검출로 구성→깊이 부풂(M13 R +1.45 사례).\n  master 한계 margin ≤0.7mag → depth_valid=False. 유효 주입프레임 6개 대조: RMS 0.15 mag.\n- 남은 일: 머지 후 predicted vs realized 산점 조립(+블렌드 매칭 +0.1 편향 캡션 명시)"}, {"id": "pend_manuscript", "label": "원고 §3.6 갱신", "title": "원고 §3.6 갱신", "type": "n", "cat": 6, "card": "# 원고 반영 대기\n§3.6을 다중프레임 실측주입+법칙으로 갱신 · §3.7(측성)·§3.15(시계열) 스텁 채우기 ·\n[[dec_citation_fixes|인용 6건]] 반영 · Data Availability 그림번호 깨짐 수정."}], "edges": [["hub_paper", "hub_repro"], ["hub_paper", "dec_figure_spec"], ["hub_paper", "dec_citation_fixes"], ["hub_paper", "dec_vv_ladder"], ["hub_paper", "pend_manuscript"], ["hub_repro", "fig_completeness"], ["hub_repro", "fig_astrometry"], ["hub_repro", "fig_iraf"], ["hub_repro", "fig_precision"], ["hub_repro", "dec_repro_def"], ["fig_completeness", "ref_haynes"], ["fig_completeness", "ref_balrog"], ["fig_completeness", "ref_daophot"], ["fig_completeness", "ref_autophot"], ["fig_completeness", "data_injections"], ["fig_completeness", "data_synth"], ["fig_completeness", "inv_completeness"], ["fig_completeness", "dec_synth_ok"], ["fig_completeness", "dec_m13_ok"], ["fig_completeness", "done_lawtest"], ["fig_astrometry", "ref_ofek_masci"], ["fig_astrometry", "data_reprocess"], ["fig_iraf", "ref_schechter"], ["fig_iraf", "ref_autophot"], ["fig_iraf", "data_iraf"], ["fig_precision", "ref_honeycutt"], ["fig_precision", "ref_cc_kovacs"], ["fig_precision", "data_reprocess"], ["fig_precision", "pend_precision_fix"], ["inv_completeness", "dec_m13_ok"], ["inv_completeness", "dec_synth_ok"], ["dec_vv_ladder", "data_synth"], ["inv_detector", "data_injections"], ["dec_repro_def", "fig_precision"], ["dec_repro_def", "fig_completeness"], ["pend_lc_period", "ref_cc_kovacs"], ["pend_lc_period", "ref_period"], ["pend_lc_period", "data_lc"], ["pend_precision_fix", "ref_cc_kovacs"], ["pend_zp_resid", "inv_bfilter"], ["done_lawtest", "data_injections"], ["pend_manuscript", "dec_citation_fixes"], ["hub_repro", "pend_zp_resid"], ["hub_repro", "pend_cog"], ["hub_repro", "pend_bouguer"], ["hub_repro", "pend_lc_period"], ["fig_completeness", "pend_fig_a_layout"]]};
 const CATCOL = {0:'--c0',1:'--c1',2:'--c2',3:'--c3',4:'--c4',5:'--c5',6:'--c6'};
 const css = v => getComputedStyle(document.documentElement).getPropertyValue(v).trim();
 const cv = document.getElementById('cv'), ctx = cv.getContext('2d');

diff --git a/validation/paper/논문작업/build_knowledge_graph.py b/validation/paper/논문작업/build_knowledge_graph.py
@@ -66,7 +66,7 @@ RASTI/PASP급. 원고 `validation/paper/MANUSCRIPT_ko.md`(+영문). 구조 v4 = 
 - 실측 M67 r 10프레임 1073별, Honeycutt 앙상블 ZP: **floor g/r/i = 5.4/5.2/6.7 mmag**
 - 경험RMS = 보고 mag_err (photon영역 일치 = 에러모델 정직) + bright end 계통 floor 노출
 - ⚠ **10에폭 = under-powered**: 단일밤·binning 불가. floor값 자체는 에폭수 무감(5ep 5.18±0.33)
-- ⚠ [[pend_precision_fix|CC/Kovács 귀속 정정 필요]] — 원문 의도=detrending 전후 비교(SYSREM/TFA), 미재현"""),
+- 귀속 정정 완료([[pend_precision_fix|Honeycutt 단독+예비 라벨]]) — CC/Kovács는 LC 재현으로 이관"""),
 
     # ── 레퍼런스 (cat2) ──
     N("ref_haynes", "Haynes 2002", 2, """# Haynes 2002 (MNRAS 334,262)
@@ -93,7 +93,7 @@ PP(Mommert 2017) 0.3″을 참조선으로 병기."""),
     N("ref_cc_kovacs", "CC 2006 · Kovács 2005", 2, """# Collier Cameron 2006 (WASP) · Kovács 2005 (TFA)
 **detrending 논문** — 의도는 SYSREM/TFA 전후 floor 하강 비교(수천 에폭, 트랜짓 감도).
 10에폭 단일밤으론 재현 불가 → [[pend_lc_period|LC 재현]]에서 SYSREM 전후로 제대로.
-현 floor 그림에서 귀속 제거 예정([[pend_precision_fix|정정 미결]])."""),
+floor 그림에서 귀속 제거 완료([[pend_precision_fix|정정 기록]])."""),
     N("ref_period", "Stellingwerf · Graham", 2, """# Stellingwerf 1978 (PDM) · Graham 2013 (주기복원 비교)
 주기 복원 검증 준거. AE UMa(P=0.086017d)·YZ Boo(P=0.104092d) 문헌 확정값 보유.
 LC 전처리 deferred라 보류: [[pend_lc_period|LC 주기복원]]."""),
@@ -164,9 +164,10 @@ m50 = C − 2.5logσ − 5logFWHM, **지수 이론고정·C만 fit: 잔차 RMS 1
 - **교훈**: FWHM은 frame_stats(밝은별)가 아니라 **각 런의 주입커널**(empirical_psf.fits 반높이면적)로
   — soft 프레임에서 9.30 vs 7.23px 괴리가 0.4mag 이탈 일으켰음(추적해 해소)
 - 이 법칙이 [[dec_repro_def|기기무관 재현]]의 실체 — 절대 깊이가 아니라 법칙이 검증 대상"""),
-    N("pend_precision_fix", "floor 귀속 정정", 6, """# 정밀도 floor 그림 정정 (미승인 제안)
-CC/Kovács 귀속 제거 → Honeycutt 단독 + "single-night N=10 예비" 라벨.
-확정판은 [[pend_lc_period|LC]]에서 SYSREM 전후 비교로. **사용자 승인 대기.**"""),
+    N("pend_precision_fix", "floor 귀속 정정(완료)", 5, """# 정밀도 floor 귀속 정정 — 완료 (2026-07-24 "알아서 하쇼")
+CC/Kovács 귀속 제거(둘은 detrending 논문 — 수천 에폭 전후비교, 10에폭으론 재현 불가) →
+**Honeycutt 1992 단독** + "single night · preliminary" 라벨을 그림·docstring에 명기.
+확정판은 [[pend_lc_period|LC]]에서 SYSREM 전후 비교로."""),
     N("pend_lc_period", "LC 주기복원", 6, """# LC 재현 (Stellingwerf/Graham + CC/Kovács 진짜 재현)
 선결: 사용자 observed_Analysis 수동삭제 → LC 전처리(100GB) → step1-11.
 목표: AE UMa·YZ Boo 주기 문헌 대조 + SYSREM 전후 RMS-vs-mag(수백 에폭)."""),

diff --git a/validation/paper/fig_precision_floor.py b/validation/paper/fig_precision_floor.py
@@ -1,9 +1,11 @@
-"""Figure — photometric precision floor (per-star RMS vs magnitude).
+"""Figure — photometric precision floor (per-star RMS vs magnitude). PRELIMINARY:
+single night, N=10 epochs.
 
-Reproduces the canonical time-series-pipeline validation diagram (Honeycutt 1992
-ensemble photometry, PASP 104,435; Collier Cameron+2006 SuperWASP, MNRAS 373,799;
-Kovacs+2005 TFA, MNRAS 356,557): the per-star scatter across many frames, after an
-ensemble zeropoint correction, plotted against magnitude. Two things are checked
+Reproduces the ensemble-photometry method validation of Honeycutt 1992 (PASP
+104,435): the per-star scatter across frames, after a differential-ensemble
+zeropoint correction, plotted against magnitude. (Collier Cameron+2006 / Kovacs+
+2005 are NOT claimed here — their point is the before/after-detrending floor drop
+on thousands of epochs; that reproduction is deferred to the LC re-run with SYSREM.) Two things are checked
 at once — (i) the empirical scatter follows the pipeline's OWN reported photon-noise
 error bar (error model validated), and (ii) at the bright end the scatter hits a
 systematic floor set by flat-field / PSF / scintillation residuals.
@@ -109,7 +111,7 @@ def main() -> int:
     ax.text(0.97, 0.05,
             f"M67 {FILT} · {nfr} frames · {k.sum()} stars\n"
             f"floors: g {1000*floors['g']:.0f} · r {1000*floors['r']:.0f} · "
-            f"i {1000*floors['i']:.0f} mmag",
+            f"i {1000*floors['i']:.0f} mmag (preliminary)",
             transform=ax.transAxes, va="bottom", ha="right", fontsize=6.6,
             color="0.3",
             bbox={"boxstyle": "round,pad=0.3", "facecolor": "white",

diff --git a/validation/paper/논문작업/MANUSCRIPT_ko.md b/validation/paper/논문작업/MANUSCRIPT_ko.md
@@ -124,9 +124,9 @@ APEX는 검출기의 gain·읽기잡음·암전류를 자체 보정 프레임에
 
 ### 3.6 검출 완전도
 
-완전도(completeness)는 검출기의 되찾음 비율이 등급에 따라 어떻게 떨어지는지를 재는 양으로, APEX가 만드는 목록의 실효 깊이를 정하고 되찾음이 신호대잡음비(S/N)에 의해 제한되는지 아니면 등급에 의존하는 검출기 편향에 의해 제한되는지를 보여 준다. DAOPHOT에서 도입된 인공별 완전도 시험 \citep{stetson1987}을 따라, 몬테카를로 시행 300번에 걸쳐 인공별 $21{,}000$개를 등급 사다리를 따라 주입하고 실제 검출기 — 배경 위 $3.2\sigma$의 SEP 엔진 \citep{bertin1996} — 로 되찾는다. **여기서 측정하는 것은 우리 검출기 자체의 완전도다.** 주입이 이만큼 많으면 등급 구간별 되찾음 비율 자체가 매끄러운 곡선이 되므로(그림 5, 위), 대규모 주입 검증(DES Balrog; \citealt{anbajagane2025})과 AutoPhOT의 관행대로 등급 공간에는 어떤 함수도 맞추지 않고, 측정된 완전도가 정해진 비율을 지나는 등급을 직접 읽어 한계 깊이로 삼는다: $m_{90}=17.34$, $m_{50}=17.60$, $m_{10}=17.84$ 등급. 그림 5 아래 줄은 같은 프로덕션 주입 코드로 심은 별들의 컷아웃으로, 읽어 낸 50\% 깊이의 별이 실제로 잡음 속에서 어떻게 보이는지 보여 준다 — $m=17.5$의 별은 눈으로도 경계선상이고, $m=18.3$은 사라진다.
+완전도(completeness)는 검출기의 되찾음 비율이 등급에 따라 어떻게 떨어지는지를 재는 양으로, APEX가 만드는 목록의 실효 깊이를 정한다. DAOPHOT의 ADDSTAR에서 도입된 인공별 시험 \citep{stetson1987}을 실측 프레임 주입의 현대 표준(DES Balrog, \citealt{anbajagane2025}; AutoPhOT, \citealt{brennan2022}) 형태로 수행한다: 관측 조건의 스팬을 덮는 **실측 단일 노출 일곱 장**(세 성단, 60–480초; 배경 잡음 $\sigma=5$–$58\,e^-$/px로 11배, 시상 FWHM 5.2–9.0 px로 1.7배)에 각각 인공별 3,000개를 심는다. 별은 그 프레임에서 측정한 경험적 PSF로 광자 잡음을 포함해 주입되고, 과학 리덕션과 동일한 검출 경로 — 배경 위 $3.2\sigma$의 SEP 엔진 \citep{barbary2016} — 를 통과하며, 기존 천체와 겹친 주입은 제외한다. 등급 공간에는 어떤 함수도 맞추지 않고 구간별 되찾음 비율(Wilson 95\% 이항 구간)이 0.5를 지나는 등급을 직접 읽는다. 대표 세 프레임의 50\% 깊이는 각각 $m_{50}=17.65$(어두운 하늘·양호한 시상), $15.64$(밝은 하늘·양호한 시상), $14.90$(밝은 하늘·불량 시상)으로, **깊이는 방법이 아니라 하늘 밝기와 시상이 정하는 프레임 속성**이다(그림 X-a; count-rate 기기등급이라 노출이 달라도 직접 비교된다). 그림의 하단 스트립은 가장 얕은 프레임에 실제로 주입된 별들의 컷아웃으로, 50\% 깊이의 별이 잡음 속에서 어떻게 보이는지 보여 준다. 참값을 완전히 통제한 합성 프레임은 되찾음 기계의 수치적 정확성을 확인하는 verification 단으로 함께 제시한다 — 그 깊이($m_{50}=17.59$)가 가장 좋은 실측 프레임과 비슷한 것은 높은 배경 잡음을 날카로운 PSF가 상쇄한 파라미터 우연이지 조건의 대응이 아니다.
 
-주입 위치를 둘로 나누어 배치 강건성도 함께 잰다. 실제 별들에서 떨어뜨린 *고립(isolated)* 배치와 아무 제약 없는 *필드(field)* 배치의 50\% 깊이는 $0.04$ 등급밖에 차이 나지 않아, 이 성긴 합성 시야에서 깊이는 배치에 둔감하다(진짜 밀집장 효과는 실제 구상성단 코어에서 3.12절이 다룬다). 필드 곡선의 밝은 쪽 평탄부가 1이 아니라 $\approx 0.88$에 머무는 것은 기존 별과의 겹침(blending)으로 인한 등급-무관 손실이며, 검출 물리와 별개라 읽어 낸 깊이를 편향시키지 않는다. 검출을 좌우하는 것은 등급 자체가 아니라 S/N이다. 가우스 배경 잡음에서 검출확률은 유의도의 오차함수(error function) 꼴 $\beta = \tfrac{1}{2}[1 + \mathrm{erf}(z/\sqrt{2})]$을 따르고 \citep{masci2011, kashyap2010, brennan2022}, 우리 자료에서 50\% 되찾음은 구경 측광 S/N $\approx 7.4$에서 일어난다 — 픽셀당 $3.2\sigma$ 문턱보다 위인 것은 SEP가 그 문턱을 최소 연결 면적에 걸쳐 넘어야 천체로 인정하기 때문이다.
+검출을 좌우하는 것은 등급이 아니라 신호대잡음비다. 각 주입별을 기대 peak-화소 S/N — 주입 플럭스에 그 프레임 주입 PSF의 peak 비율을 곱해 그 프레임의 배경 잡음으로 나눈 값 — 으로 재표현하면, 깊이가 3.4등급에 걸쳐 벌어졌던 **일곱 프레임의 되찾음이 단일 완전도 법칙으로 붕괴한다**(그림 X-b). 가우스 배경 잡음에서 기대되는 오차함수(error function) 꼴 \citep{masci2011, kashyap2010, brennan2022}을 합동 표본에 맞추면 $\mathrm{S/N_{50}}=4.0$이고, 각 프레임에서 독립적으로 읽은 값은 $\mathrm{S/N_{50}}=4.05\pm0.18$(프레임 간 4\%)로 서로 일치한다 — 픽셀당 $3.2\sigma$ 문턱보다 위인 것은 SEP가 그 문턱을 최소 연결 면적에 걸쳐 넘어야 천체로 인정하기 때문이다. 남는 프레임 간 구조 자체도 체계적이다: 최소 면적 요구 때문에 날카로운 PSF일수록 요구 peak S/N이 높아지며(FWHM 5.3 px에서 4.3, 7–9 px에서 3.8–3.9; Spearman $\rho=-0.98$), 합성 프레임(3.4 px, $\mathrm{S/N_{50}}=5.2$)도 이 추이 위에 있다 — 즉 S/N 기준으로 합성은 낙관이 아니라 오히려 약간 보수적이다. 이렇게 잰 완전도는 예측력을 갖는다: 한 실측 프레임의 마스터 목록 별들에 주입 완전도를 적용해 예상한 검출 수는 파이프라인이 실제로 검출한 수와 6\% 이내로 맞는다. 요컨대 절대 깊이는 프레임 속성이고, 파이프라인이 통제하는 양 — 천체가 되찾아지는 S/N — 은 프레임 조건과 무관하게 불변이며, 등급 공간의 완전도 곡선들은 이 단일 법칙이 각 프레임의 $\sigma\cdot\mathrm{FWHM}^2$만큼 평행이동된 것이다.
 
 ### 3.7 천체측정 해
 

diff --git a/validation/paper/논문작업/MANUSCRIPT.md b/validation/paper/논문작업/MANUSCRIPT.md
@@ -110,7 +110,9 @@ The photometry validation above uses a single camera (Section 5.3); the calibrat
 
 ### 3.6 Detection completeness
 
-Completeness quantifies how the detector's recovery fraction falls with magnitude. It sets the effective depth of any catalogue APEX builds and shows whether recovery is limited by signal-to-noise or by a magnitude-dependent detector bias. Following the artificial-star completeness test introduced with DAOPHOT \citep{stetson1987}, stars injected across a magnitude ladder and recovered by the production detector — here the SEP engine at $3.2\sigma$ above the background \citep{bertin1996} — give a well-behaved completeness function (Fig. 1a). Recovery is set by a source's signal-to-noise against the background, not by magnitude directly: the recovered fraction is a clean threshold transition in S/N (Fig. 1b) that follows the error-function detection-probability form expected for a flux measured against Gaussian background noise, $\beta = \tfrac{1}{2}\!\left[1 - \mathrm{erf}(z/\sqrt{2})\right]$ with $z$ the source's significance above the detection threshold \citep{masci2011, kashyap2010} — the same limiting-magnitude model the AutoPhOT pipeline adopts \citep{brennan2022}. The recoveries collapse onto this curve with a 50 per cent point near $\mathrm{S/N}\approx7.4$ (in aperture-photometry S/N); this sits above the nominal $3.2\sigma$ per-pixel threshold because SEP requires a source to clear that threshold over a minimum connected area. The binned recovery fractions are the measurement and the fitted curve only summarises them, its parameters bootstrapped over the 12 injection trials and not re-fit to the binned points. Mapped through the $\mathrm{S/N}(m)$ relation this gives the magnitude completeness of Fig. 1a: a 50 per cent depth $m_{50} = 17.56^{+0.08}_{-0.07}$ mag (bootstrap 95 per cent CI $17.48$–$17.63$), transition width $0.33$ mag, from 840 injections, with completeness above 90 per cent brighter than $m_{90}=16.83$ and below 10 per cent fainter than $m_{10}=18.28$. The few-per-cent shortfall from unity at the brightest bins is a separate, magnitude-*independent* loss (injections landing on defective pixels or close blends) that the detection model does not absorb and does not need to: it leaves the recovered depth and width unaffected.
+Completeness quantifies how the detector's recovery fraction falls with magnitude; it sets the effective depth of any catalogue APEX builds. We perform the artificial-star test introduced with DAOPHOT's ADDSTAR \citep{stetson1987} in its modern real-frame form (DES Balrog, \citealt{anbajagane2025}; AutoPhOT, \citealt{brennan2022}): 3,000 stars are injected into each of **seven real single exposures** spanning the observed range of conditions (three clusters, 60–480 s; background noise $\sigma = 5$–$58\,e^-$ px$^{-1}$, a factor 11; seeing FWHM 5.2–9.0 px, a factor 1.7). Stars are injected with the empirical PSF measured from each frame, with source Poisson noise, and recovered through the identical detection path as the science reduction — the SEP engine at $3.2\sigma$ above the background \citep{barbary2016}; injections confounded by a pre-existing source are excluded. No function is fitted in magnitude space: the 50 per cent depth is read off where the binned recovered fractions (Wilson 95 per cent binomial intervals) cross 0.5. The three representative frames give $m_{50} = 17.65$ (dark sky, sharp), $15.64$ (bright sky, sharp) and $14.90$ (bright sky, soft): **depth is a property of the frame — set by sky brightness and seeing — not of the method** (Fig. X-a; the count-rate instrumental system makes different exposure times directly comparable). The bottom strip of the figure shows actual injected stars in the shallowest frame straddling its transition. The fully controlled synthetic frame is retained as the verification rung that the recovery machinery is numerically correct; its depth ($m_{50}=17.59$) resembling the best real frame is a coincidence of parameter combinations — its higher background noise offset by its sharper PSF — not a correspondence of conditions.
+
+What the pipeline controls is not a magnitude but a signal-to-noise ratio. Re-expressing every injected star by its expected peak-pixel S/N — injected flux times the peak fraction of that frame's injection PSF, divided by that frame's background noise — **collapses all seven frames, spanning 3.4 mag of depth, onto a single completeness law** (Fig. X-b). An error-function detection-probability form, as expected against Gaussian background noise \citep{masci2011, kashyap2010, brennan2022}, fitted to the pooled sample gives $\mathrm{S/N_{50}} = 4.0$; reading each frame's 50 per cent crossing independently gives $\mathrm{S/N_{50}} = 4.05 \pm 0.18$ (4 per cent frame-to-frame), consistent with the fit. This sits above the nominal $3.2\sigma$ per-pixel threshold because SEP requires a source to clear that threshold over a minimum connected area — and the residual frame-to-frame structure is itself systematic for the same reason: sharper PSFs concentrate their flux in fewer pixels and therefore require a higher peak S/N (4.3 at FWHM $\approx 5.3$ px versus 3.8–3.9 at 7–9 px; Spearman $\rho = -0.98$), a trend the synthetic frame (3.4 px, $\mathrm{S/N_{50}} = 5.2$) continues — in S/N terms the synthetic is slightly conservative, not optimistic. The measured completeness is predictive: applying the injected completeness curve of one real frame to the master-catalogue stars on that frame predicts the number the pipeline actually detected to within 6 per cent. Absolute depth is thus a frame property, the S/N at which sources are recovered is invariant across frame conditions, and the magnitude-space completeness curves are this single law translated by each frame's $\sigma \cdot \mathrm{FWHM}^2$.
 
 ### 3.7 Astrometric solution
 

diff --git a/validation/paper/논문작업/REPRODUCTION_STATUS.md b/validation/paper/논문작업/REPRODUCTION_STATUS.md
@@ -30,7 +30,7 @@ Kovács(HATNet)=CCD, Ofek/Masci(ZTF)=대형 CCD 모자이크. APEX=Sony IMX455 *
 | **완전도(F5)** | Haynes 2002 / DES Balrog / DAOPHOT ADDSTAR / AutoPhOT App.D | 실측 3프레임(M67i·NGC6811R·M13V) 주입-회수 + 합성 verification | m50 17.7/15.6/14.9 (sky+seeing 추적), M67실측=합성깊이, 컷아웃 사다리 | `fig_completeness_realvssynth.py` |
 | **측성(F6)** | Ofek 2019 / Masci 2019 (ZTF) | 실측 66프레임 3성단 WCS QC | Gaia 잔차 중앙값 0.26″, 66/66 solved | `fig_astrometry.py` |
 | **독립엔진 교차(F10)** | Schechter 1993 (DoPHOT vs DAOPHOT) / AutoPhOT Fig14 | NGC6811 V, APEX vs IRAF phot, 499별 고정좌표 | MAD 9.7 mmag, r=0.99989, faint까지 평평 | `fig_iraf_crosscheck.py` |
-| **정밀도 floor** | Honeycutt 1992 / Collier Cameron 2006 (WASP) / Kovács 2005 (TFA) | 실측 M67 10프레임 r, 1073별 | floor g/r/i = 5.4/5.2/6.7 mmag, 에러모델 일치 | `fig_precision_floor.py` |
+| **정밀도 floor(예비)** | Honeycutt 1992 단독 (CC/Kovács는 detrending 논문 — LC 재현으로 이관) | 실측 M67 10프레임 r, 1073별 | floor g/r/i = 5.4/5.2/6.7 mmag, 에러모델 일치 | `fig_precision_floor.py` |
 
 각 그림의 정직성 포인트:
 - **완전도**: 합성 vs 실측 2.7 mag 격차를 끝까지 추적 → M13 프레임의 넓은 seeing(7.6px)+높은
@@ -58,5 +58,5 @@ Kovács(HATNet)=CCD, Ofek/Masci(ZTF)=대형 CCD 모자이크. APEX=Sony IMX455 *
 ## 사용자 판단 필요
 1. **보류 항목 중 진행할 것**: (a) 광도보정 잔차 그림(논란 영역 — 진행하려면 어느 레퍼런스로
    보정할지 결정 필요), (b) LC 주기복원(전처리 재개 필요), (c) 소광 Bouguer, (d) curve-of-growth 재실행.
-2. **원고 §3.6 반영**: 완전도를 실측-프레임 주입으로 전환(리뷰 권고 해소) — 프로즈 갱신할지.
-3. **정밀도 floor 그림**을 §3 어느 절에 넣을지(신규 절 vs 기존 시계열 절).
+2. ~~원고 §3.6 반영~~ — **완료(2026-07-24)**: 국·영 §3.6을 실측 7프레임 주입+S/N 붕괴로 재작성
+   (SEP 인용 barbary2016으로 정정 포함). floor 그림 §3 배치는 여전히 미결(신규 절 vs 시계열 절).
